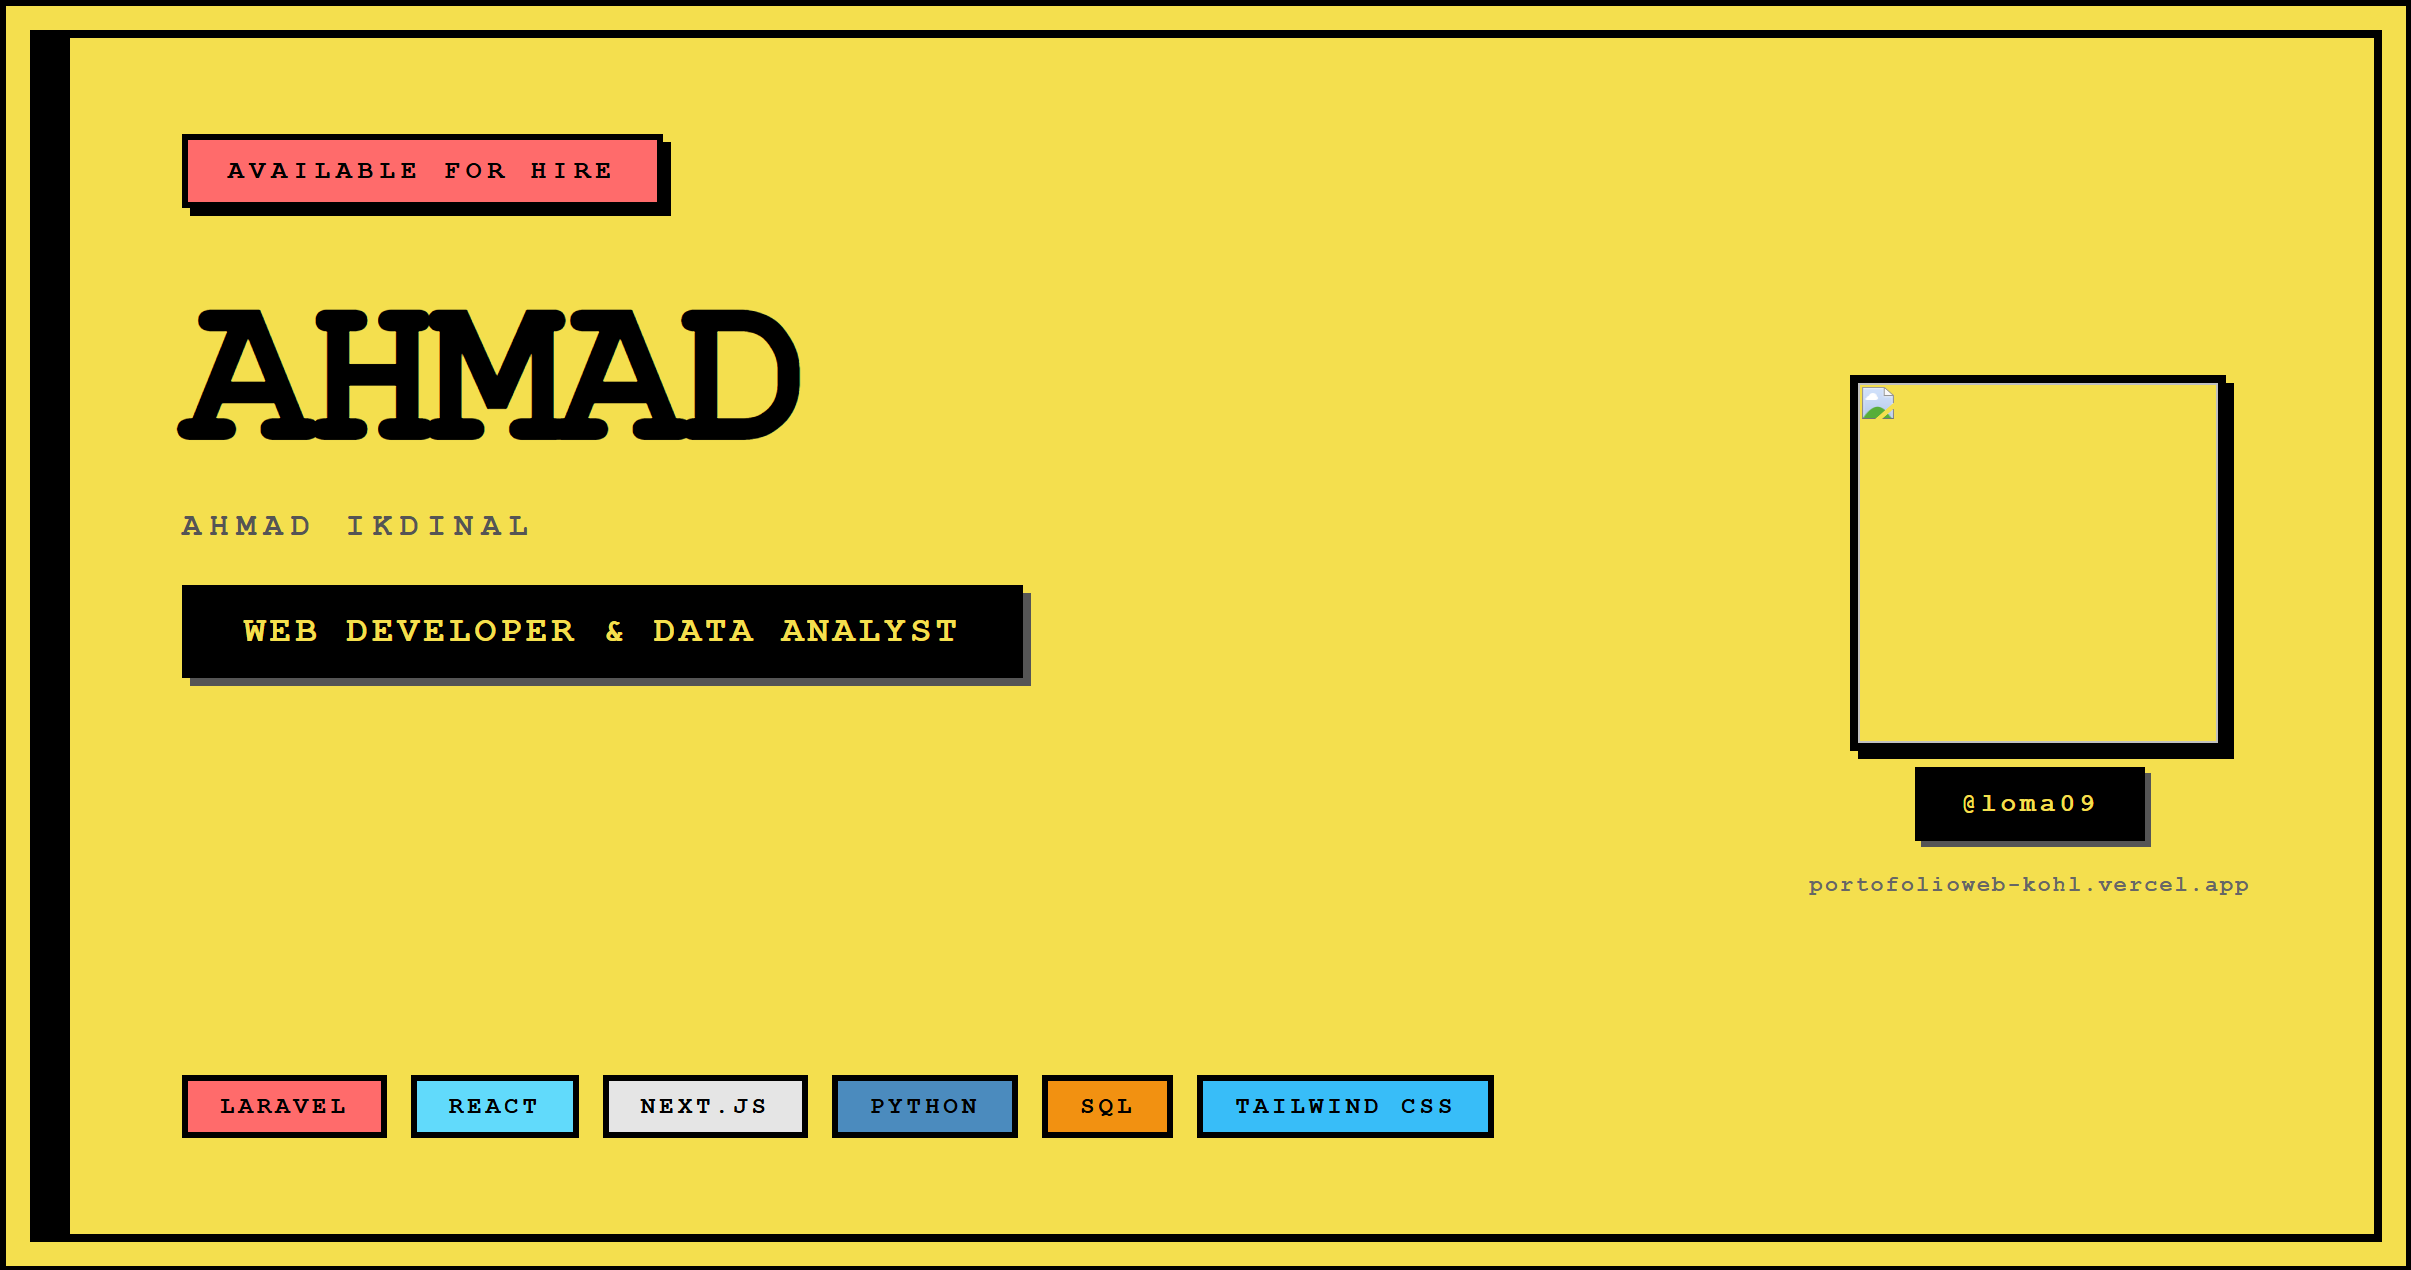
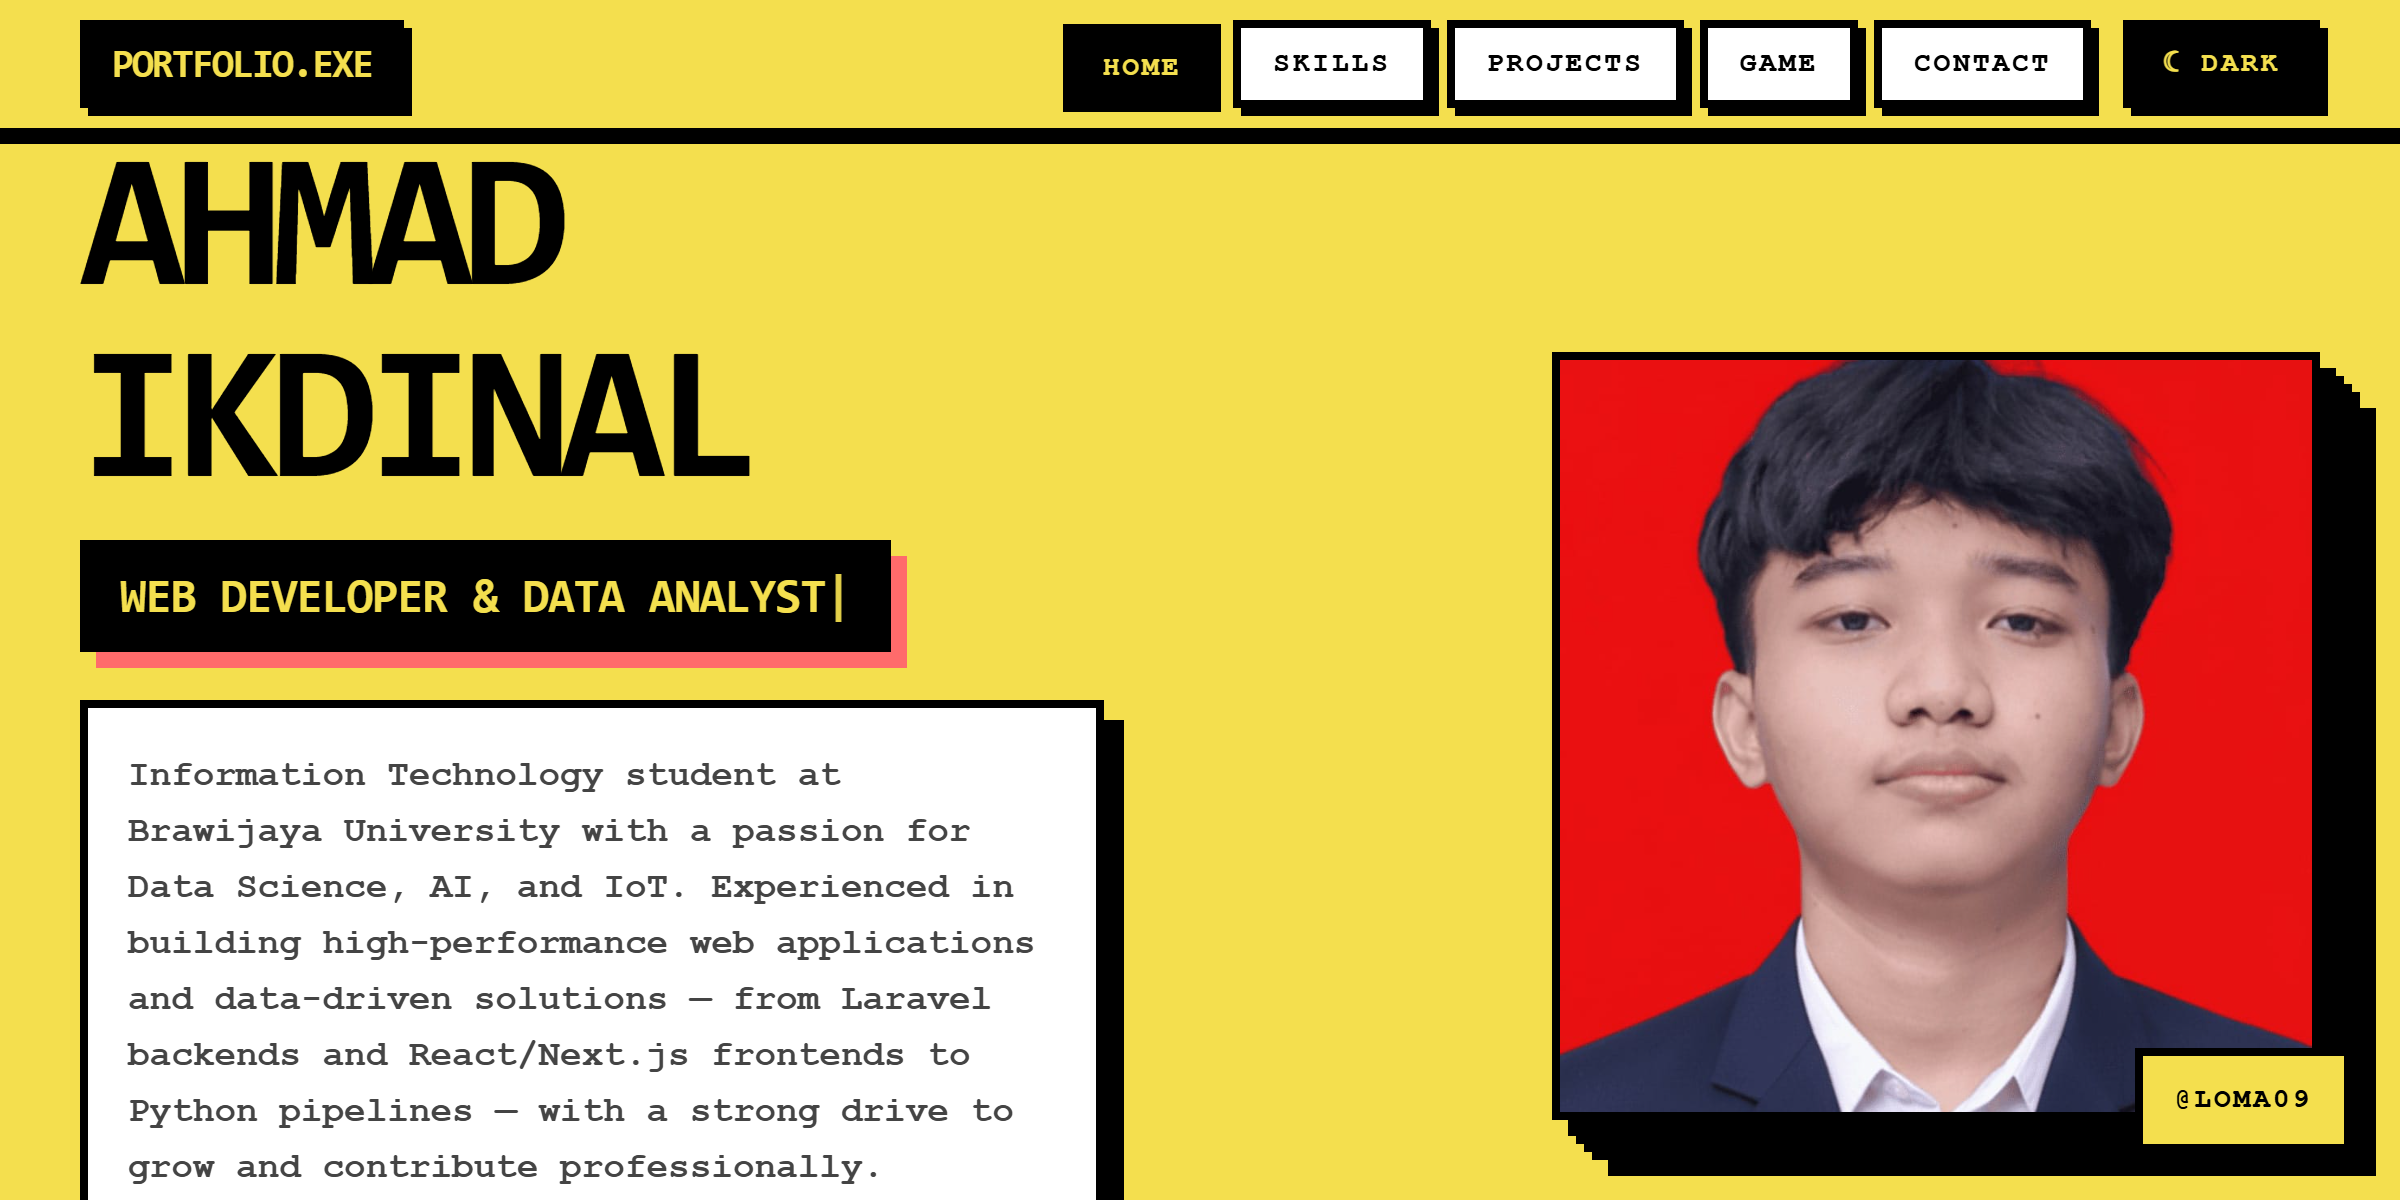
feat: fixing bugs

diff --git a/src/Portfolio.jsx b/src/Portfolio.jsx
@@ -39,6 +39,33 @@ function Reveal({ children, delay = 0, direction = "up", className = "" }) {
   );
 }
 
+// ── CountUp ───────────────────────────────────────────────────────────
+function CountUp({ value, duration = 1400 }) {
+  const [ref, visible] = useReveal();
+  const [display, setDisplay] = useState("0");
+  const started = useRef(false);
+  useEffect(() => {
+    if (!visible || started.current) return;
+    started.current = true;
+    const str = String(value);
+    const m = str.match(/^([\d.]+)(\+?)$/);
+    if (!m) { setDisplay(value); return; }
+    const end = parseFloat(m[1]);
+    const suffix = m[2] || "";
+    const dec = m[1].includes(".") ? m[1].split(".")[1].length : 0;
+    const t0 = performance.now();
+    const tick = (now) => {
+      const p = Math.min((now - t0) / duration, 1);
+      const ease = 1 - Math.pow(1 - p, 3);
+      setDisplay(parseFloat((end * ease).toFixed(dec)) + suffix);
+      if (p < 1) requestAnimationFrame(tick);
+      else setDisplay(value);
+    };
+    requestAnimationFrame(tick);
+  }, [visible]);
+  return <span ref={ref}>{display}</span>;
+}
+
 const NAV_LINKS = ["Home", "Skills", "Projects", "Game", "Contact"];
 
 const SKILLS = [
@@ -383,7 +410,7 @@ function SnakeGame({ t }) {
               Take A Break
             </div>
             <h2 className="font-black text-5xl md:text-7xl uppercase tracking-tighter" style={{ color: "#F4DF4E" }}>
-              SNAKE<br /><span style={{ color: "#FF6B6B" }}>GAME_</span>
+              SNAKE<br /><span style={{ color: "#FF6B6B" }} className="glitch-text">GAME_</span>
             </h2>
           </div>
         </Reveal>
@@ -721,7 +748,7 @@ function HeroSection({ t }) {
 
           <Reveal direction="right" delay={200}>
             <div className="relative flex justify-center lg:justify-end">
-              <div className="relative w-72 h-72 md:w-96 md:h-96">
+              <div className="relative w-72 h-72 md:w-96 md:h-96 float-anim">
                 <div style={{ background: "#FF6B6B", border: `4px solid ${t.border}`, boxShadow: `12px 12px 0 0 ${t.shadow}` }} className="absolute inset-0 translate-x-4 translate-y-4"></div>
                 <div style={{ background: "#61DAFB", border: `4px solid ${t.border}`, boxShadow: `12px 12px 0 0 ${t.shadow}` }} className="absolute inset-0 translate-x-2 translate-y-2"></div>
                 <div style={{ background: t.card, border: `4px solid ${t.border}`, boxShadow: `12px 12px 0 0 ${t.shadow}`, transition: "all 0.4s ease" }} className="relative w-full h-full overflow-hidden">
@@ -744,7 +771,7 @@ function HeroSection({ t }) {
           ].map((s, i) => (
             <Reveal key={s.label} direction="up" delay={i * 80}>
               <div style={{ background: t.card, border: `4px solid ${t.border}`, boxShadow: `6px 6px 0 0 ${t.shadow}`, transition: "all 0.4s ease" }} className="p-4 text-center">
-                <p style={{ color: t.text }} className="font-black text-3xl">{s.num}</p>
+                <p style={{ color: t.text }} className="font-black text-3xl"><CountUp value={s.num} /></p>
                 <p style={{ color: t.textMuted }} className="font-bold text-sm uppercase tracking-widest">{s.label}</p>
               </div>
             </Reveal>
@@ -765,7 +792,7 @@ function SkillsSection({ t, dark }) {
               What I Work With
             </div>
             <h2 style={{ color: t.skillsText }} className="font-black text-5xl md:text-7xl uppercase tracking-tighter">
-              CORE<br /><span style={{ color: "#F4DF4E" }}>SKILLS_</span>
+              CORE<br /><span style={{ color: "#F4DF4E" }} className="glitch-text">SKILLS_</span>
             </h2>
           </div>
         </Reveal>
@@ -778,7 +805,7 @@ function SkillsSection({ t, dark }) {
                 onMouseLeave={e => { e.currentTarget.style.transform = "none"; e.currentTarget.style.boxShadow = `8px 8px 0 0 ${dark ? "rgba(244,223,78,0.5)" : "rgba(244,223,78,0.8)"}`; }}
                 className="p-6 group">
                 <div className="flex items-start justify-between mb-4">
-                  <div style={{ background: "#fff", border: `4px solid #000`, boxShadow: `4px 4px 0 0 #000` }} className="w-14 h-14 flex items-center justify-center shrink-0">
+                  <div style={{ background: "#fff", border: `4px solid #000`, boxShadow: `4px 4px 0 0 #000` }} className="skill-icon-box w-14 h-14 flex items-center justify-center shrink-0">
                     <img src={skill.icon} alt={skill.name} className="w-8 h-8 object-contain" />
                   </div>
                   <span className="font-black text-4xl text-black opacity-20 font-mono">{String(i + 1).padStart(2, "0")}</span>
@@ -805,7 +832,7 @@ function ProjectsSection({ t }) {
             </div>
             <h2 style={{ color: t.text, transition: "color 0.4s ease" }} className="font-black text-5xl md:text-7xl uppercase tracking-tighter">
               SELECTED<br />
-              <span style={{ background: t.text, color: t.body, transition: "all 0.4s ease" }} className="px-2 inline-block">PROJECTS</span>
+              <span style={{ background: t.text, color: t.body, transition: "all 0.4s ease" }} className="glitch-text px-2 inline-block">PROJECTS</span>
             </h2>
           </div>
         </Reveal>
@@ -823,7 +850,7 @@ function ProjectsSection({ t }) {
                 style={{ background: t.card, border: `4px solid ${t.border}`, boxShadow: `8px 8px 0 0 ${t.shadow}`, transition: "all 0.15s ease" }}
                 onMouseEnter={e => { e.currentTarget.style.transform = "translate(4px,4px)"; e.currentTarget.style.boxShadow = `4px 4px 0 0 ${t.shadow}`; }}
                 onMouseLeave={e => { e.currentTarget.style.transform = "none"; e.currentTarget.style.boxShadow = `8px 8px 0 0 ${t.shadow}`; }}
-                className="flex flex-col h-full">
+                className="project-card flex flex-col h-full">
                 <div style={{ background: project.mockupBg, borderBottom: `4px solid ${t.border}` }} className="h-44 relative overflow-hidden">
                   <div className="absolute top-0 left-0 right-0 h-8 bg-[#2a2a2a] flex items-center px-3 gap-2" style={{ borderBottom: "2px solid #000" }}>
                     <div className="w-3 h-3 rounded-full bg-[#FF5F56] border border-black"></div>
@@ -834,12 +861,12 @@ function ProjectsSection({ t }) {
                     </div>
                   </div>
                   <div className="absolute top-10 left-0 right-0 bottom-0 p-3 flex flex-col gap-2">
-                    <div style={{ background: project.accentBar, border: "2px solid rgba(255,255,255,0.2)" }} className="h-6 w-3/4"></div>
-                    <div className="h-3 bg-gray-600 w-full opacity-50 rounded-sm"></div>
-                    <div className="h-3 bg-gray-600 w-4/5 opacity-40 rounded-sm"></div>
-                    <div className="h-3 bg-gray-600 w-2/3 opacity-30 rounded-sm"></div>
+                    <div style={{ background: project.accentBar, border: "2px solid rgba(255,255,255,0.2)" }} className="mockup-bar h-6 w-3/4"></div>
+                    <div className="mockup-bar h-3 bg-gray-600 w-full opacity-50 rounded-sm"></div>
+                    <div className="mockup-bar h-3 bg-gray-600 w-4/5 opacity-40 rounded-sm"></div>
+                    <div className="mockup-bar h-3 bg-gray-600 w-2/3 opacity-30 rounded-sm"></div>
                     <div className="flex gap-2 mt-1">
-                      <div style={{ background: project.accentBar, border: "2px solid rgba(255,255,255,0.2)" }} className="h-7 w-20"></div>
+                      <div style={{ background: project.accentBar, border: "2px solid rgba(255,255,255,0.2)" }} className="mockup-bar h-7 w-20"></div>
                       <div className="h-7 w-16 bg-gray-700 border-2 border-gray-500"></div>
                     </div>
                   </div>
@@ -908,7 +935,7 @@ function ContactSection({ t }) {
               Get In Touch
             </div>
             <h2 style={{ color: t.text, transition: "color 0.4s ease" }} className="font-black text-5xl md:text-7xl uppercase tracking-tighter">
-              LET'S<br /><span style={{ borderBottom: `8px solid ${t.border}` }}>WORK.</span>
+              LET'S<br /><span style={{ borderBottom: `8px solid ${t.border}` }} className="glitch-text">WORK.</span>
             </h2>
           </div>
         </Reveal>

diff --git a/src/index.css b/src/index.css
@@ -11,3 +11,61 @@ body {
 *::after {
   box-sizing: border-box;
 }
+
+/* ── Float (Hero Photo) ────────────────────── */
+@keyframes float {
+  0%, 100% { transform: translateY(0px); }
+  50%       { transform: translateY(-14px); }
+}
+.float-anim { animation: float 5s ease-in-out infinite; }
+
+/* ── Glitch (Section Titles) ───────────────── */
+@keyframes glitch {
+  0%, 82%, 100% {
+    text-shadow: none;
+    transform: translate(0);
+  }
+  84% {
+    text-shadow: -4px 0 #FF6B6B, 4px 0 #61DAFB;
+    transform: translate(-2px, 1px);
+  }
+  86% {
+    text-shadow: 4px 0 #FF6B6B, -4px 0 #61DAFB;
+    transform: translate(2px, -1px);
+  }
+  88% {
+    text-shadow: -2px 0 #F4DF4E, 2px 0 #FF6B6B;
+    transform: translate(0);
+  }
+  90% {
+    text-shadow: none;
+    transform: translate(0);
+  }
+}
+.glitch-text {
+  display: inline-block;
+  animation: glitch 5s infinite;
+}
+
+/* ── Skill Icon Spin on Hover ──────────────── */
+@keyframes icon-spin {
+  0%   { transform: rotate(0deg) scale(1); }
+  50%  { transform: rotate(180deg) scale(1.2); }
+  100% { transform: rotate(360deg) scale(1); }
+}
+.skill-icon-box:hover img {
+  animation: icon-spin 0.55s ease-out forwards;
+}
+
+/* ── Project Mockup Bars ───────────────────── */
+.mockup-bar {
+  transform-origin: left center;
+  transform: scaleX(0.55);
+  opacity: 0.5;
+  transition: transform 0.5s cubic-bezier(0.16,1,0.3,1),
+              opacity 0.4s ease;
+}
+.project-card:hover .mockup-bar { transform: scaleX(1); opacity: 1; }
+.mockup-bar:nth-child(2) { transition-delay: 0.06s; }
+.mockup-bar:nth-child(3) { transition-delay: 0.12s; }
+.mockup-bar:nth-child(4) { transition-delay: 0.18s; }
